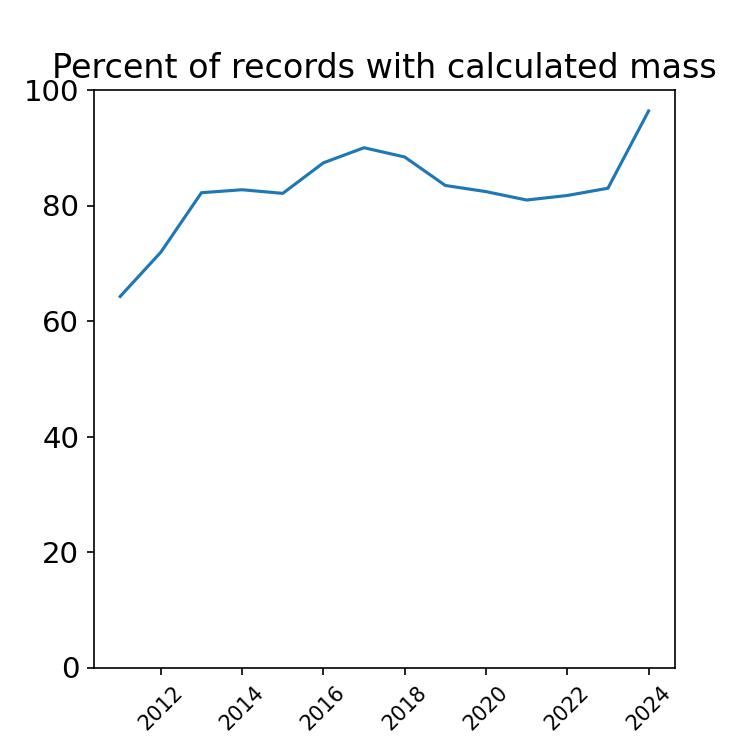
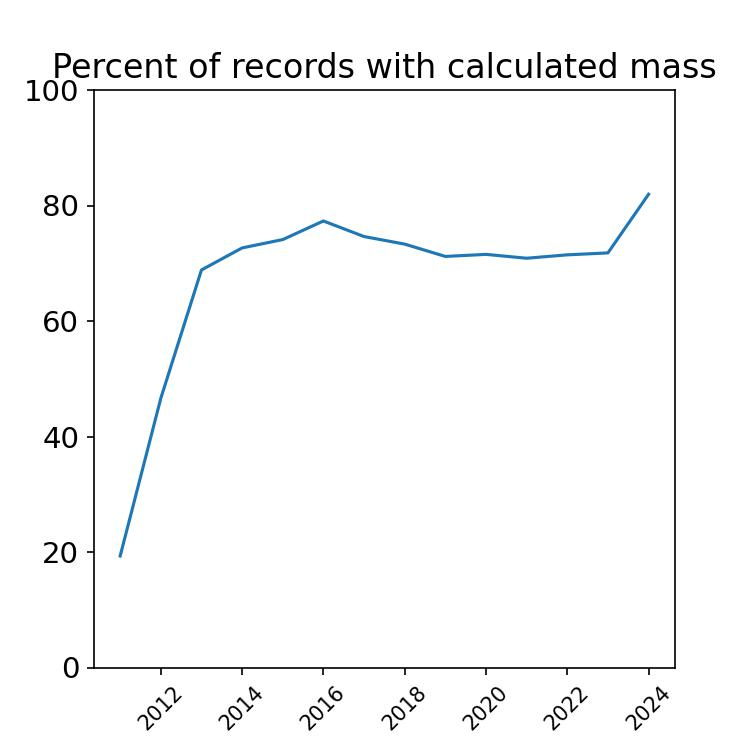
many changes, most involving adapting to FFV4

diff --git a/build/core/Table_manager.py b/build/core/Table_manager.py
@@ -11,8 +11,10 @@ import os
 import datetime
 import openFF.build.core.mass_tools as mt
 #import openFF.build.core.cas_tools as ct
+import openFF.build.core.flag_issues as fi
 import openFF.build.core.external_dataset_tools as et
 from openFF.common.file_handlers import save_df, get_df, ext_fn
+
 
 class Table_constructor():
     
@@ -37,6 +39,8 @@ class Table_constructor():
                           'bgCAS': os.path.join(self.pkldir,'bgCAS.parquet'),
                           'companies': os.path.join(self.pkldir,'companies.parquet'),
                           'water_source': os.path.join(self.pkldir,'water_source.parquet'),
+                          'disc_issues': os.path.join(self.pkldir,'disc_issues.parquet'),
+                          'rec_issues': os.path.join(self.pkldir,'rec_issues.parquet'),
                           }
         self.cas_ing_fn = os.path.join(self.trans_dir,'casing_curated.parquet')
         self.cas_ing_source = get_df(self.cas_ing_fn)
@@ -124,6 +128,34 @@ class Table_constructor():
         self.tables['water_source'] = piv
         # print(piv.head(10))
 
+#     def assemble_issues_tables(self,df):
+#         self.print_step('assembling tables of FracFocus flaws')
+#         obj = fi.Flag_issues(df)
+#         obj.detect_all_issues()
+#         # now add single flag fields to each
+#         t = obj.disc_df
+#         t['d_flags'] = ''
+#         cols = t.columns.tolist().remove('DisclosureId')  # all the rest should be flag columns
+#         for col in cols:
+#             dkeys = t[t[col]].DisclosureId.tolist() # list of DId that are True
+#             t.d_flags = np.where(t.DisclosureId.isin(dkeys),
+#                                  t.d_flag+col+' ',
+#                                  t.d_flag)
+#         self.tables['disc_issues'] = t
+
+#         t = obj.rec_df
+#         t['r_flags'] = ''
+#         cols = t.columns.tolist().remove('reckey')  # all the rest should be flag columns
+#         for col in cols:
+#             rkeys = t[t[col]].reckey.tolist() # list of DId that are True
+#             t.r_flags = np.where(t.reckey.isin(rkeys),
+#                                  t.r_flag+col+' ',
+#                                  t.r_flag)
+#         self.tables['rec_issues'] = t
+        
+
+
+
     # def assemble_PADUS_data(self,df):
     #     # ext_sources_dir = self.extdir
     #     return et.process_PADUS(df,sources=self.extdir,
@@ -209,8 +241,9 @@ class Table_constructor():
         # print(tmp[clist].head())
         tmp['ws_perc_total'] = tmp[clist].sum(axis=1, numeric_only=True)
         # print(tmp.info())
-        # print(f'df col: {df.columns}')    
+        #print(f'df col: {df.columns}')    
         df = df.merge(tmp, on='DisclosureId',how='left',validate='1:1')
+        #print(f'df col: {df.columns}')    
         # print(df[df.ws_perc_total>0][['DisclosureId','ws_perc_total']].head(20))
         self.tables['disclosures']= df
 
@@ -226,7 +259,10 @@ class Table_constructor():
         are labelled.
         To handle this problem, hopefully temporarily, we use a data set created with a pre-FFV4 archive that
         found the duplicates and labels them.  It also has the DisclosureId attached.   """
-        reffn = ext_fn(ext_dir=self.sources,handle='trans_dup_recs')
+        # reffn = ext_fn(ext_dir=self.sources,handle='trans_dup_recs')
+
+        # pulling ext_dir from default, not local
+        reffn = ext_fn(handle='trans_dup_recs')
         self.print_step('USING archived data to flag Version 3 duplicate records',2)
         trans_df = get_df(reffn,cols=['DisclosureId','IngredientName','CASNumber','MassIngredient',
                                                 'PercentHFJob','PercentHighAdditive'])
@@ -260,6 +296,7 @@ class Table_constructor():
         return records.drop(['FFVersion','old_dup_rec'],axis=1)
     
     def assemble_chem_rec_table(self,raw_df):
+        """as of FFV4, records where ingKeyPreset==False, bgCAS is set to 'non_chem_record'"""
         self.print_step('assembling chemical records table')
         df= raw_df[['DisclosureId','CASNumber','IngredientName','PercentHFJob',
                     'Supplier','Purpose','TradeName','FFVersion',
@@ -274,7 +311,9 @@ class Table_constructor():
         df = pd.merge(df,self.tables['cas_ing'],
                                 on=['CASNumber','IngredientName'],
                                 how='left')     
-        # ct.na_check(df,txt='bgCAS add')
+        # as of FFV4
+        df.bgCAS = np.where(df.ingKeyPresent,df.bgCAS,'non_chem_record')
+
         unCAS = df[df.bgCAS.isna()]\
                     .groupby(['CASNumber','IngredientName'],as_index=False)\
                         ['DisclosureId'].count()
@@ -523,6 +562,7 @@ class Table_constructor():
         self.gen_primarySupplier()
         self.make_whole_dataset_flags()
         self.mass_calculations()
+        # self.assemble_issues_tables()
         self.pickle_tables()
         self.show_size()
         

diff --git a/build/core/flag_issues.py b/build/core/flag_issues.py
@@ -4,7 +4,8 @@ import os
 class Disclosure_Issues():
     def __init__(self,df):
         self.df = df
-        self.gb = df.groupby('DisclosureId',as_index=False)[['APINumber','TotalBaseWaterVolume']].first()
+        self.gb = df.groupby('DisclosureId',as_index=False)[['APINumber','TotalBaseWaterVolume','has_TBWV',
+                                                             'is_duplicate','MI_inconsistent','ws_perc_total']].first()
 
     # ALL Issues must be named "dIssues_x"  where x is usually a consecutive number.
     # x will become the flag's name as in "d_x"
@@ -13,14 +14,25 @@ class Disclosure_Issues():
         disc_set = self.gb[cond].DisclosureId.tolist()
         return disc_set
 
-    def dIssue_1(self):
-        cond = ~(self.gb.TotalBaseWaterVolume>0)
+    def dIssue_001(self):
+        '''TotalBaseWaterVolume is missing or zero. Mass calculations are not possible.'''
+        cond = self.gb.has_TBWV==False
         return self.get_disc_set(cond)
 
-    def dIssue_2(self):
-        cond = self.gb.TotalBaseWaterVolume==10000
+    def dIssue_002(self):
+        """ this disclosure has a duplicate in FracFocus; that is, has the same APINumber and JobEndDate."""
+        cond = self.gb.is_duplicate
         return self.get_disc_set(cond)
 
+    def dIssue_003(self):
+        """ The MassIngredient data do not pass the internal consistency test, so are is used when reporting mass."""
+        cond = self.gb.MI_inconsistent
+        return self.get_disc_set(cond)
+
+    def dIssue_004(self):
+        """ The reported water source percentages do not sum to 100%"""
+        cond = ~(self.gb.ws_perc_total==100)
+        return self.get_disc_set(cond)
 
 class Record_Issues():
     def __init__(self,df):
@@ -33,8 +45,14 @@ class Record_Issues():
         reckey_set = self.df[cond].reckey.tolist()
         return reckey_set
 
-    def rIssue_1(self):
+    def rIssue_001(self):
+        """This flag indicates that a record is a redundant duplicate of another in the same disclosure."""
         c1 = self.df.dup_rec
+        return self.get_rec_set(c1)
+
+    def rIssue_002(self):
+        """PercentHFJob is 0 or not reported; mass cannot be calculated and MassIngredient is typically also missing."""
+        c1 = self.df.ingKeyPresent & ~(self.df.PercentHFJob>0)
         return self.get_rec_set(c1)
 
 class Flag_issues():
@@ -68,7 +86,7 @@ class Flag_issues():
             if item[:7] == 'rIssue_':
                 name = 'r_'+item[7:]
                 self.rec_issue_dic['self.rIssues.'+item+'()'] = name
-        print(self.rec_issue_dic)
+        # print(self.rec_issue_dic)
 
     def make_rec_flag_df(self,reckey_set,rec_issues):
         self.rec_df = pd.DataFrame({'reckey':list(reckey_set)})

diff --git a/build/builder_nb_support.py b/build/builder_nb_support.py
@@ -87,12 +87,13 @@ def get_water_source_df(cols=None,work_dir=work_dir):
 ####  ------ Functions called by the builder notebook
 
 def create_and_fill_folders(download_repo=True,
-                            repo_root='https://storage.googleapis.com/open-ff-common/repos/current_repo',
+                            repo_root='https://storage.googleapis.com/open-ff-common/repos/current_repo_FFV4',
                             orig_dir=orig_dir,
                             work_dir=work_dir,
                             final_dir=final_dir,
                             ext_dir=ext_dir):   
     import urllib.request
+    print(f'Using repo location **{repo_root}** as starting point.')
     dirs = [orig_dir,work_dir,final_dir,ext_dir]
     for d in dirs:
         if os.path.isdir(d):
@@ -425,7 +426,7 @@ def builder_step1(final_dir=final_dir,work_dir=work_dir,orig_dir=orig_dir):
     files = [
              'missing_values.csv',
              'new_state_county_ref.csv',
-             'IngName_non-specific_list.parquet'
+             'IngName_non-specific_list.parquet',
      ]
     for fn in files:
         shutil.copy(os.path.join(orig_dir,'curation_files',fn),
@@ -447,7 +448,9 @@ def builder_step1(final_dir=final_dir,work_dir=work_dir,orig_dir=orig_dir):
              'location_curated.parquet',
              'disclosureId_ref.parquet', 
              'upload_dates.parquet',
-             'CI_sdf_summary.parquet']
+             'CI_sdf_summary.parquet',
+             'ws_flat.parquet',
+             ]
     for fn in files:
         shutil.copy(os.path.join(work_dir,fn),
                     os.path.join(final_dir,'curation_files',fn))
@@ -477,6 +480,17 @@ def builder_step3(final_dir=final_dir):
     tests.run_all_tests()
     completed()
     
+def create_issues_data_set(final_dir=final_dir):
+    import FF_issues.flag_issues as fi
+    import numpy as np
+
+    print('assembling tables of FracFocus flaws')
+    df = get_df(os.path.join(final_dir,'full_df.parquet'))
+
+    obj = fi.Flag_issues(df,final_dir)
+    obj.detect_all_issues()
+    print(' -- issues detected, now compiling flag fields')
+    obj.add_summary_fields()
     
 def make_repository(create_zip=False,final_dir=final_dir):
     directories = []

diff --git a/common/chem_list_summary.py b/common/chem_list_summary.py
@@ -15,16 +15,18 @@ class ChemListSummary():
     def __init__(self,df,
                  summarize_by_chem=True, # False: show all records
                  ignore_duplicates=True, # just the std_filtered data
+                 use_remote=False,
                  #do_not_list= ['ambiguousID','sysAppMeta'] # leave out of reports
                  ):
         self.df = df
         self.summarize_by_chem = summarize_by_chem
         self.ignore_duplicates = ignore_duplicates
-        self.do_not_list = {'chem_index': [],
-                            'colab_v1' : ['ambiguousID','sysAppMeta'],
+        self.use_remote = use_remote
+        self.do_not_list = {'chem_index': ['non_chem_report'],
+                            'colab_v1' : ['ambiguousID','non_chem_report'],
                             'summary_file' : [],
                             'single_disc': [],
-                            'pdf_report1': ['ambiguousID','sysAppMeta']}
+                            'pdf_report1': ['ambiguousID','non_chem_report']}
         # sets of fields to include under different circumstances
         self.colsets = {'chem_index': ['composite_id','refs','img','tot_records','num_w_mass',
                                        'mass_median','mass_90_perc',
@@ -47,7 +49,7 @@ class ChemListSummary():
                                        'rq_lbs','fingerprint','extrnl','earliest_date'],
                         }
         
-        self.assemble_cas_df()
+        self.assemble_cas_df(use_remote=self.use_remote)
         
     def make_extrnl_column(self,chem_df):
         chem_df['extrnl'] = np.where(chem_df.is_on_CWA,'CWA<br>','    ')

diff --git a/browser/gen_full_browser.py b/browser/gen_full_browser.py
@@ -49,11 +49,12 @@ def prep_working_df(testing_mode=testing_mode, remake_workingdf=remake_workingdf
             if remake_workingdf:
                 print('-- creating new test workingdf')
                 df = fh.get_df(os.path.join(hndl.curr_repo_dir,'full_df.parquet'))
-                c3 = df.bgCAS.isin(['1319-33-1','50-00-0','proprietary','7732-18-5','71-43-2'])
+                c3 = df.bgCAS.isin(['1319-33-1','50-00-0','proprietary','7732-18-5','71-43-2','non_chem_record','ambiguousID'])
                 c2 = df.bgCountyName == 'monroe'
                 c1 = df.bgStateName == 'ohio'
                 c4 = df.bgOperatorName == 'antero'
-                df = df[c1 & c2 & c3 & c4]
+                # df = df[c1 & c2 & c3 & c4]
+                df = df[c3]
                 df.to_parquet(os.path.join(hndl.sandbox_dir,'test_df.parquet'))
             workdf = fh.get_df(os.path.join(hndl.sandbox_dir,'test_df.parquet'))
         else:
@@ -81,10 +82,10 @@ if __name__ == '__main__':
         init_output_space()
     nbh.make_sandbox()
     workingdf = prep_working_df()
-    _ = gen_chem.Chem_gen(workingdf)
-    _ = gen_states.State_gen(workingdf)
-    _ = gen_operators.Operator_gen(workingdf)
-    _ = gen_disc.Disc_gen(workingdf)
-    _ = gen_scope.ScopeGen(workingdf)
+    # _ = gen_chem.Chem_gen(workingdf)
+    # _ = gen_states.State_gen(workingdf)
+    # _ = gen_operators.Operator_gen(workingdf)
+    # _ = gen_disc.Disc_gen(workingdf)
+    # _ = gen_scope.ScopeGen(workingdf)
     _ = gen_misc_nb.MiscNbGen(workingdf)
     print('DONE')

diff --git a/common/mapping.py b/common/mapping.py
@@ -264,7 +264,7 @@ def create_point_map(data,include_mini_map=False,inc_disc_link=True,include_shap
 def create_integrated_point_map(data,include_mini_map=False,inc_disc_link=True,include_shape=False,area_df=None,
                      fields=['APINumber','TotalBaseWaterVolume','year','OperatorName','ingKeyPresent'],
                      aliases=['API Number','Water Volume','year','Operator','has chem recs'],
-                     include_disc_link=True,
+                     use_remote=False,
                      width=600,height=400):
     """ClusterMarker and GeoJsonPopup dont work together, so we do it by hand"""
     # only the first item of the area df is used.  Meant to be a simple outline, like a county line
@@ -314,7 +314,11 @@ def create_integrated_point_map(data,include_mini_map=False,inc_disc_link=True,i
         html = tmpdf.to_html(header=False,
                              classes="table table-striped table-hover table-condensed table-responsive")
         if inc_disc_link:
-            html += '<br><h4>'+ th.getDisclosureLink(row.APINumber,row.DisclosureId,'Disclosure link') + '</h4>'
+            html += '<h5>Click for details from:</h5>'
+            html += '-- '+ th.getFFLink(row,'FracFocus')
+            html += '<br>-- '+ th.getDisclosureLink(row.APINumber,row.DisclosureId,'Open-FF',
+                                                    use_remote=use_remote)
+
         popup = folium.Popup(html)
         folium.Marker(
             location=[row.bgLatitude,row.bgLongitude],

diff --git a/build/core/Tests_of_final.py b/build/core/Tests_of_final.py
@@ -86,9 +86,19 @@ class final_test():
         self.print_stage('Confirm that IngredientsId are unique')
         assert self.df[self.df.IngredientsId.notna()].IngredientsId.duplicated().sum()==0, 'Duplicates in IngredientsId'
 
+    def emptyIngredients(self):
+        """confirm that records without IngredientsID are truly without chemical data"""
+        self.print_stage('Confirm that records without an IngredientsId are indeed lacking chem info')
+        c = ~self.df.ingKeyPresent
+        assert (self.df[c].CASNumber=='MISSING').all()
+        assert (self.df[c].IngredientName == 'missing').all()
+        assert self.df[c].PercentHFJob.notna().sum()==0
+        assert self.df[c].PercentHighAdditive.notna().sum()==0
+
     def run_all_tests(self):
         self.reckey_test()
         self.ingredientsId_test()
+        self.emptyIngredients()
         self.bgCAS_test()
         self.company_test()
         self.duplicate_test()

diff --git a/build/core/Analysis_set.py b/build/core/Analysis_set.py
@@ -14,9 +14,9 @@ def make_full_set_file(sources,outdir):
     wsfn =  os.path.join(sources,'pickles','water_source.parquet')
     outfn = os.path.join(outdir,'full_df.parquet')
     
-    df = pd.merge(fh.get_df(descfn),get_df(recsfn),on='DisclosureId',how='inner')
-    df = pd.merge(fh.df,get_df(wsfn),on='DisclosureId',how='left',validate='m:1')
-    df = pd.merge(fh.df,get_df(casfn),on='bgCAS',how='left',validate='m:1')
+    df = pd.merge(fh.get_df(descfn),fh.get_df(recsfn),on='DisclosureId',how='inner')
+    # df = pd.merge(df,fh.get_df(wsfn),on='DisclosureId',how='left',validate='m:1')
+    df = pd.merge(df,fh.get_df(casfn),on='bgCAS',how='left',validate='m:1')
     
     df['in_std_filtered'] = ~(df.is_duplicate)&~(df.dup_rec)
 

diff --git a/browser/make_new_frack_summary.py b/browser/make_new_frack_summary.py
@@ -17,7 +17,7 @@ from openFF.common.nb_helper import add_favicon
 
 # update_fn = 'c:/MyDocs/OpenFF/data/transformed/upload_dates.csv'
 
-today_str = '2024-01-18' # used as file name when finalizing and uploading
+today_str = '2024-02-17' # used as file name when finalizing and uploading
 make_final = True
 today = datetime.date.today()
 nb_fn = 'browser/notebooks/Recent_Disclosures.ipynb'

diff --git a/common/handles.py b/common/handles.py
@@ -17,8 +17,8 @@ import platform
 
 locals = ['Dell_2023_Gary','M2']
 
-repo_name = 'openFF_data_2024_01_18'
-bulkdata_date = 'January 18, 2024'
+repo_name = 'openFF_data_2024_02_17'
+bulkdata_date = 'February 17, 2024'
 
 curr_platform = ''
 if not platform.node() in locals:
